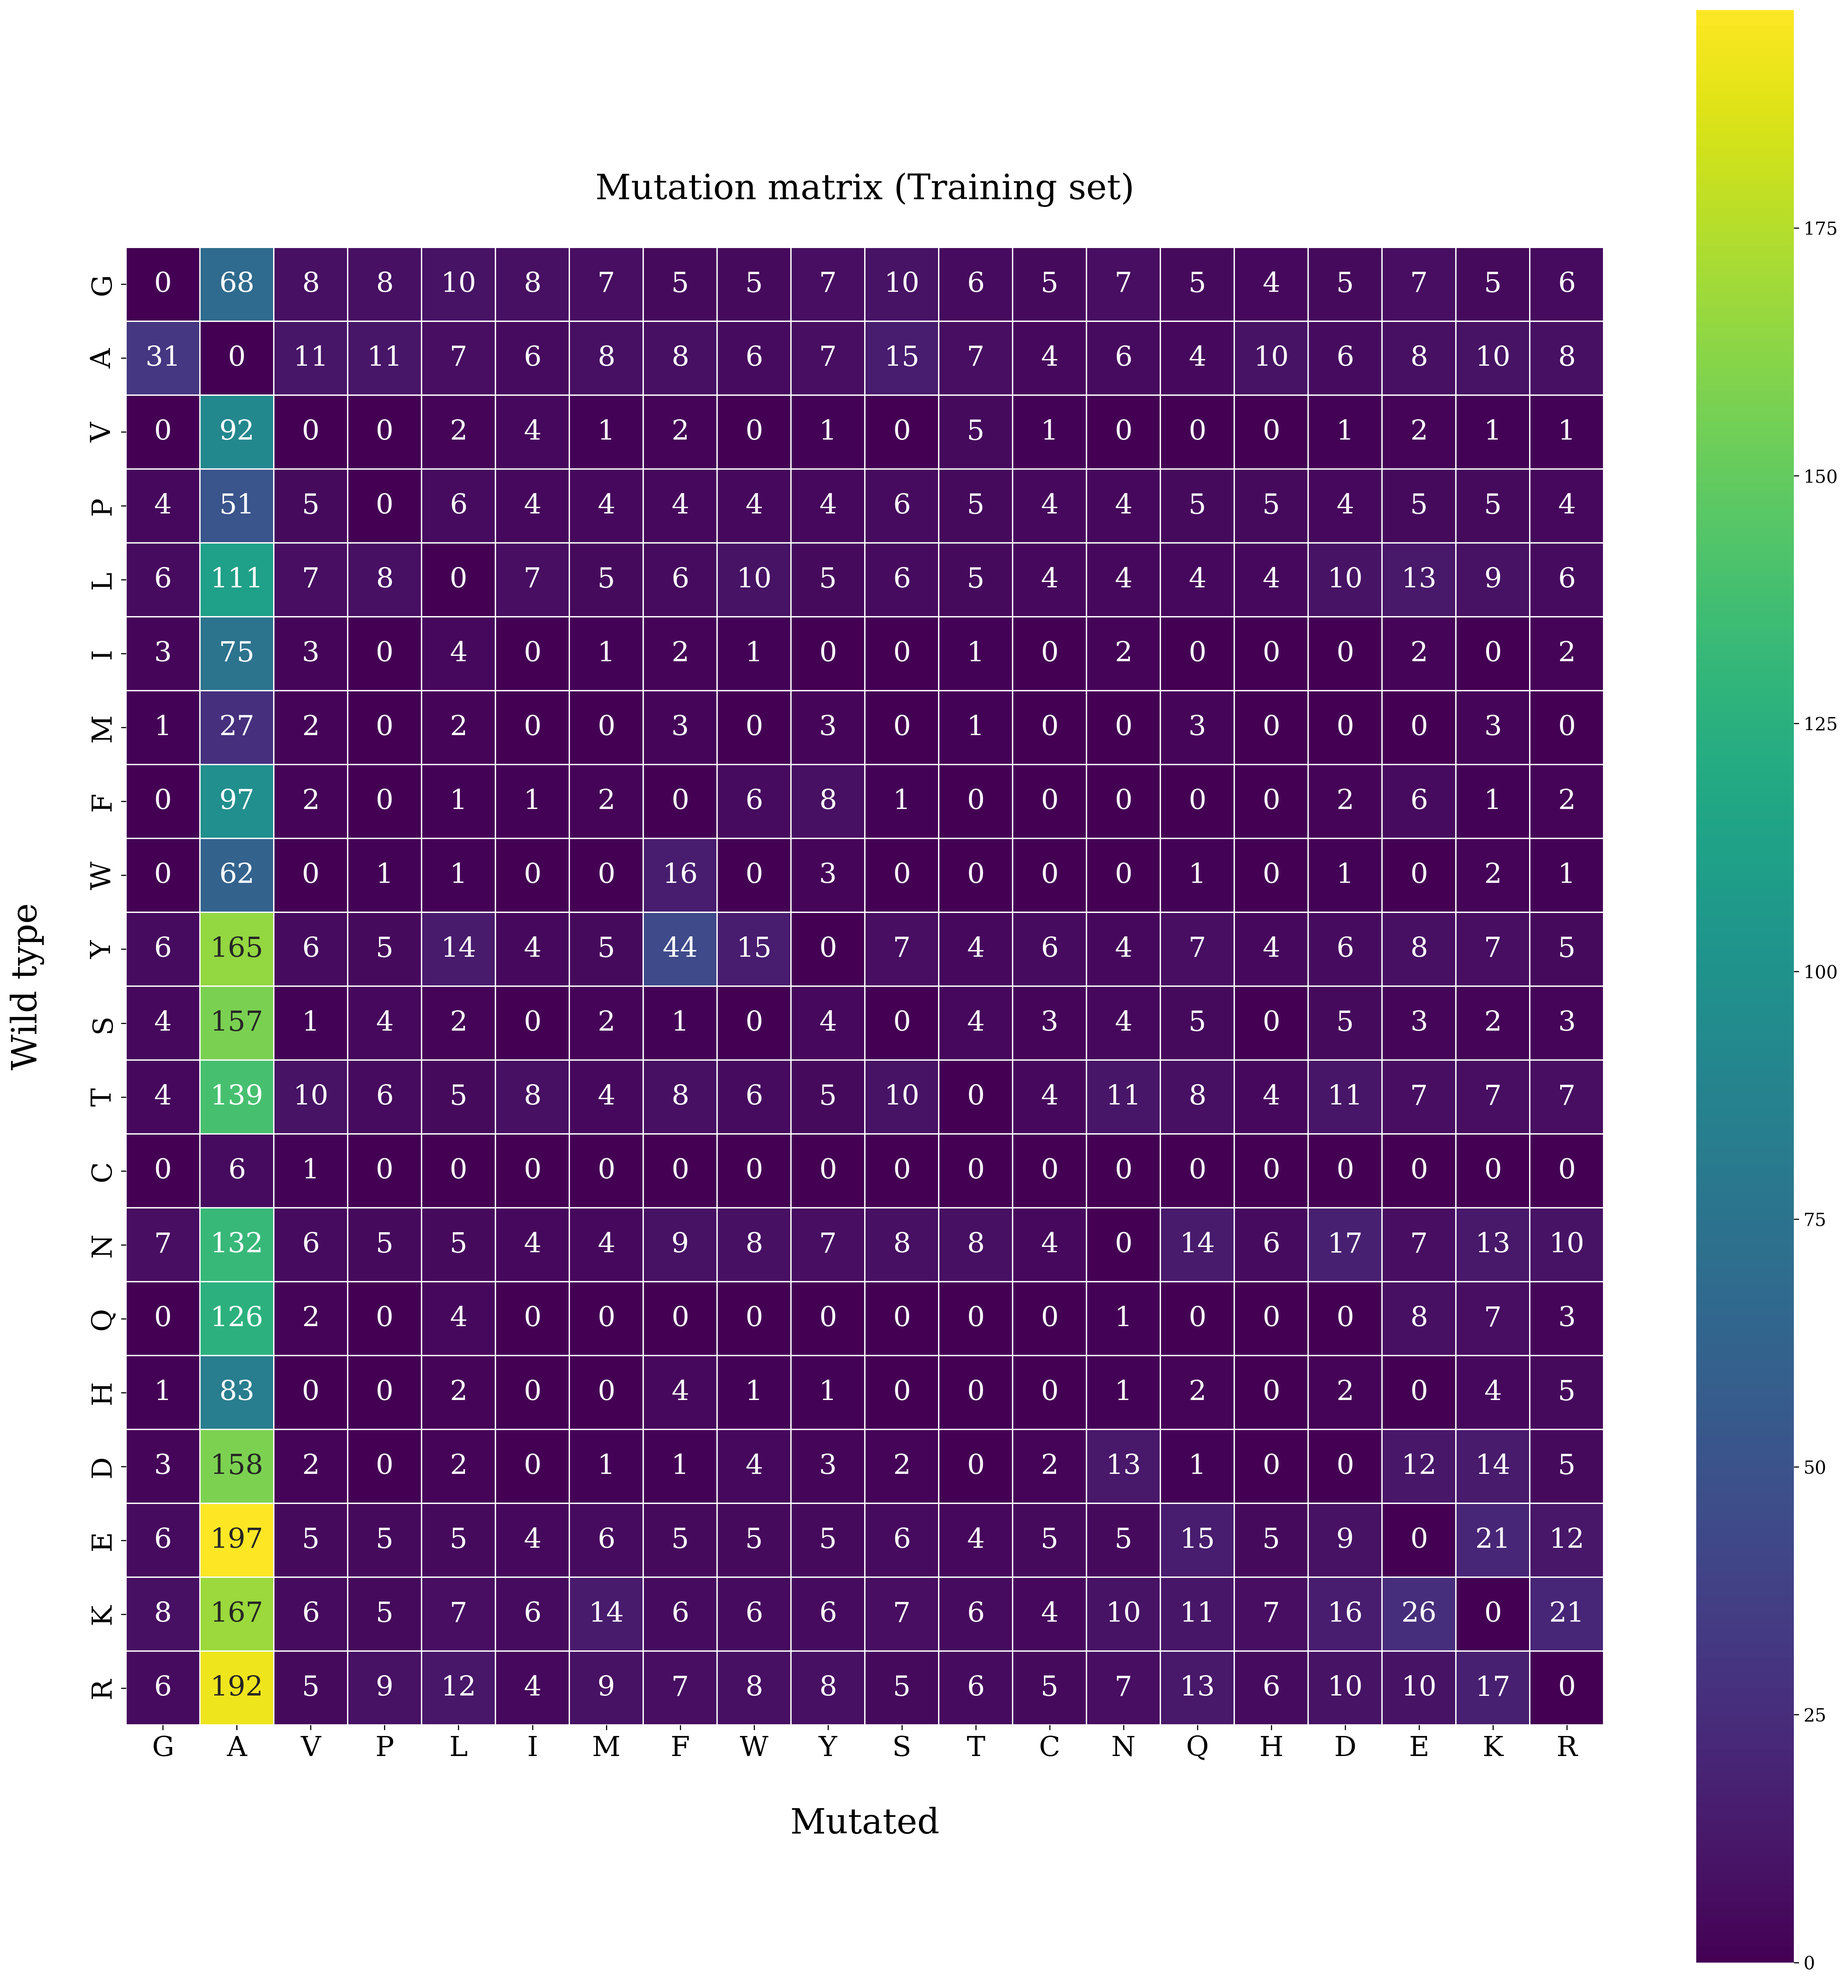
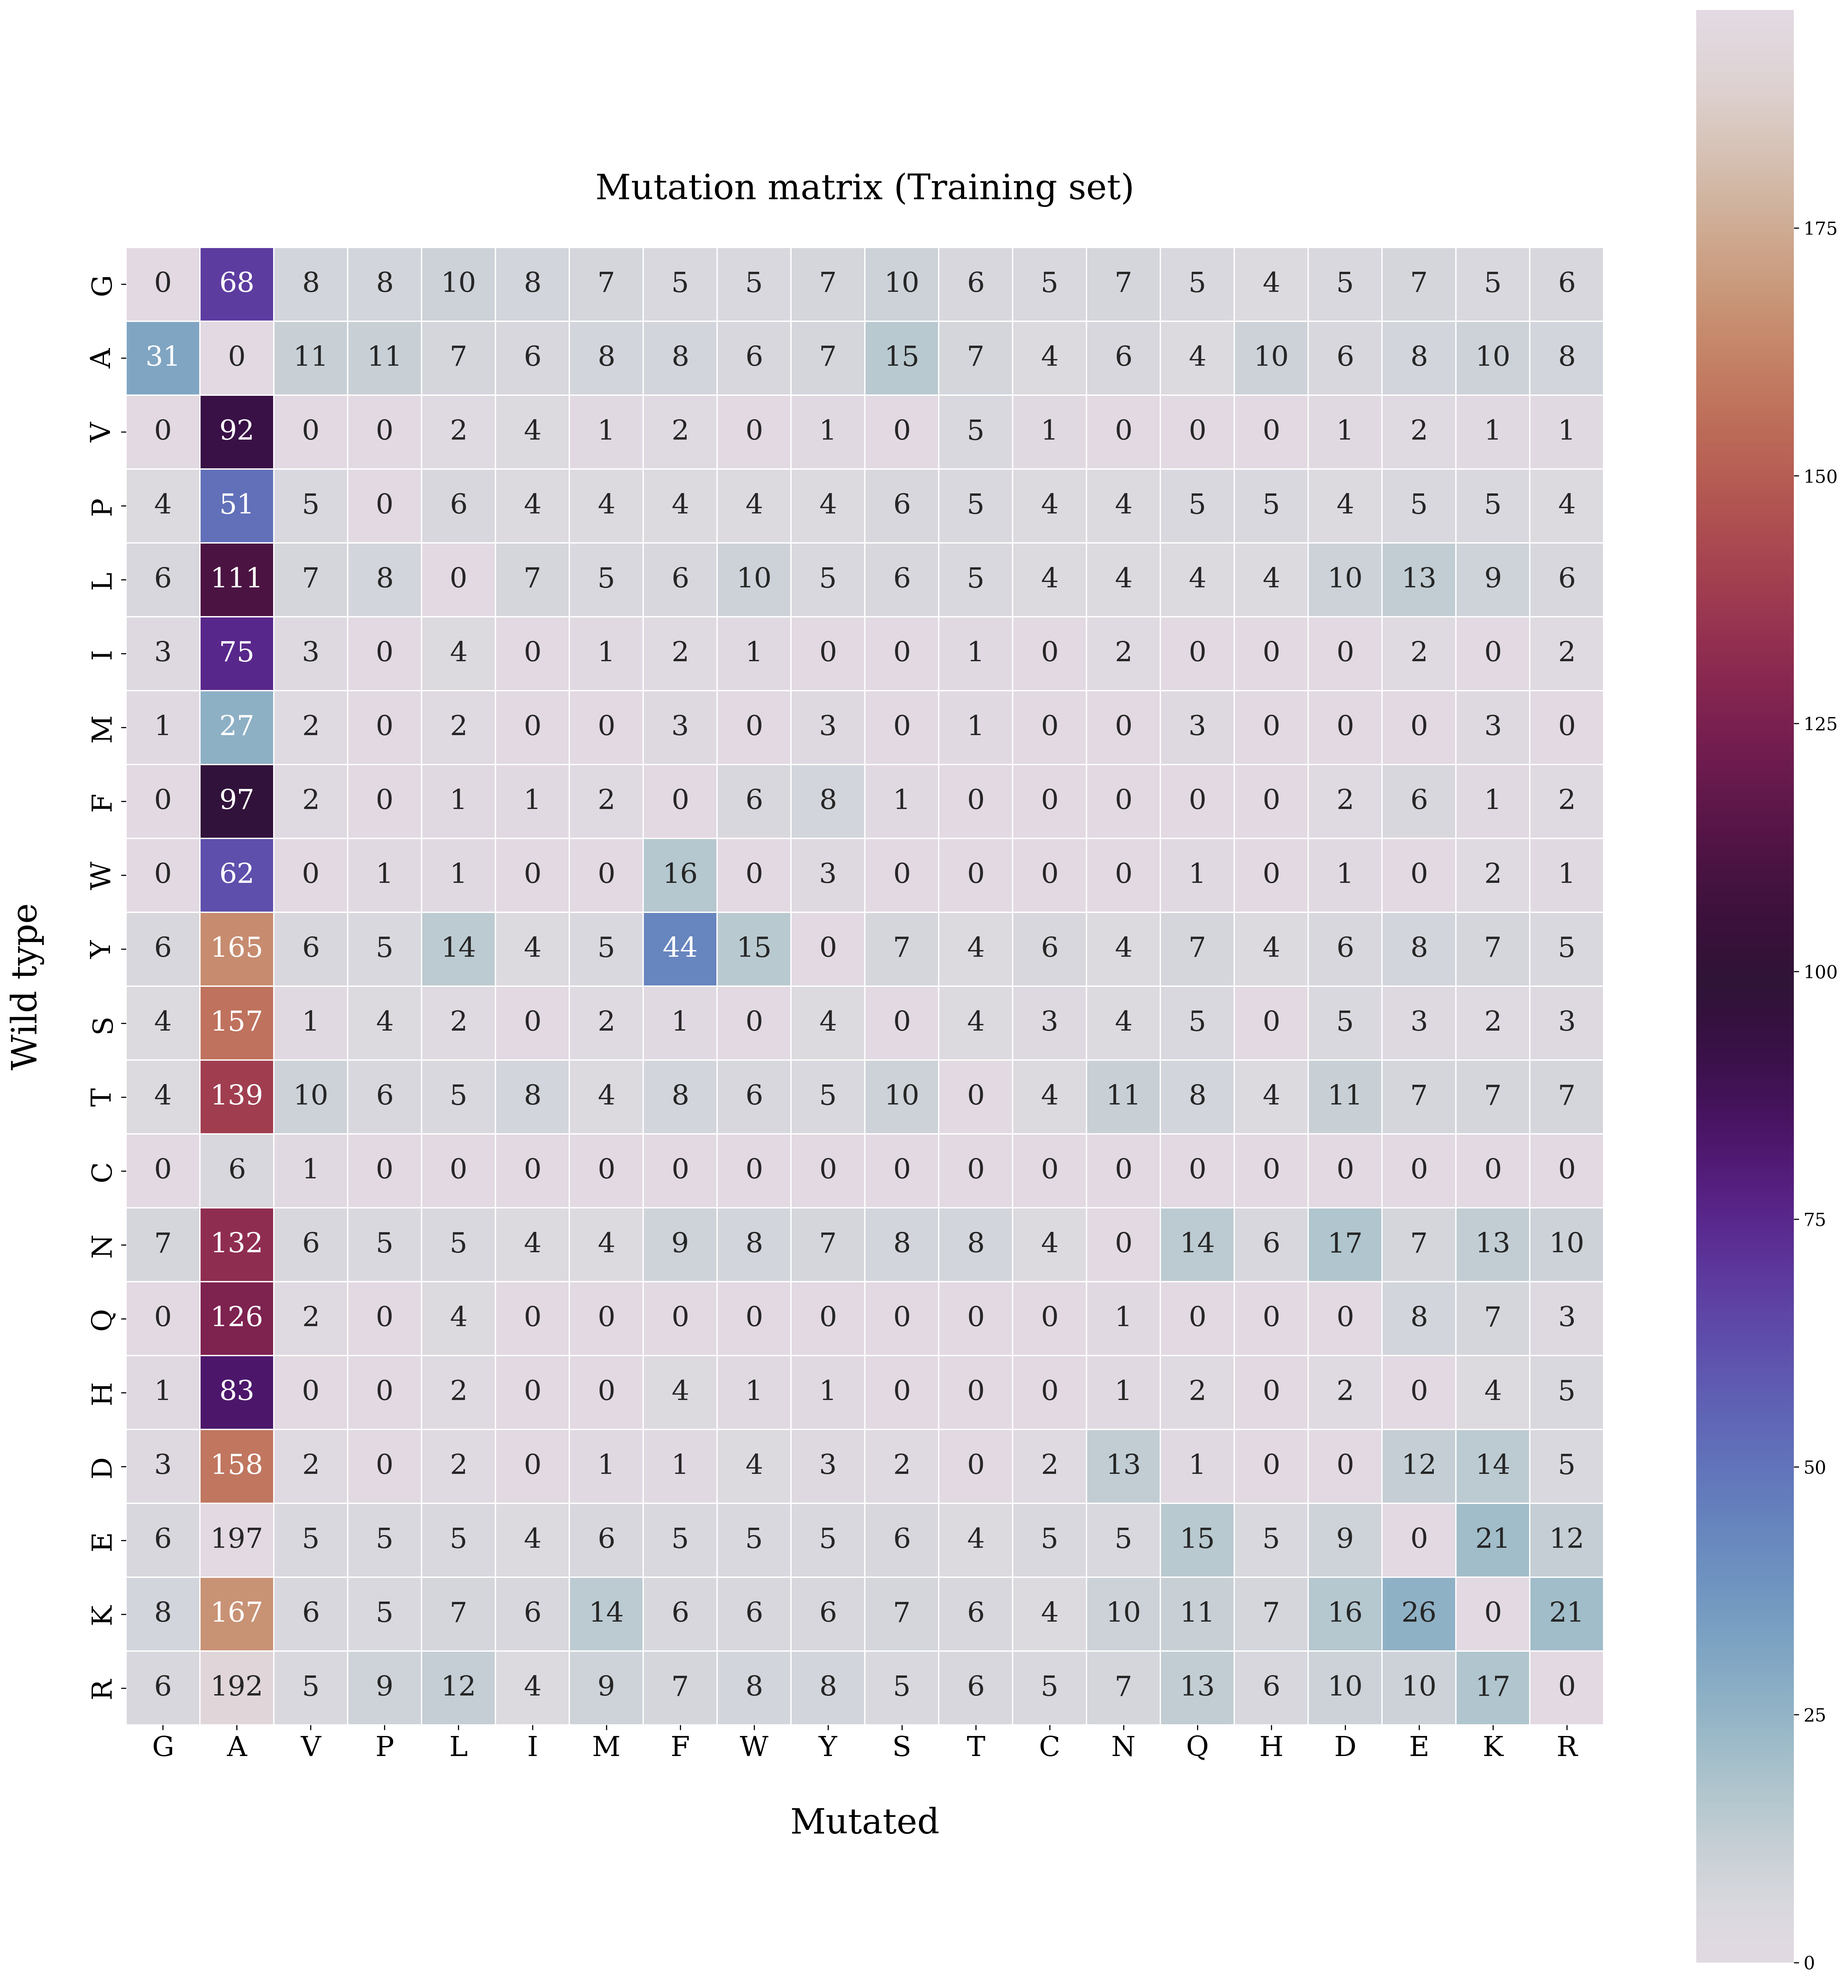
made heatmaps more readable

diff --git a/3_datasplitting/scripts/ddg_heatmap.py b/3_datasplitting/scripts/ddg_heatmap.py
@@ -3,35 +3,50 @@ import matplotlib.pyplot as plt
 import seaborn as sns
 import numpy as np
 
-ala = [f'../output/training/to_alanine_{i}.tsv' for i in range(1,6)]
-one = pd.read_csv(ala[2], sep = '\t')
+for i in range(1,6):
+    df = pd.read_csv(f'../output/training/alanine/to_alanine_{i}.tsv', sep = '\t')
 
-# Crea 20 bin
-one['DDG_avg_binned'] = pd.cut(one['DDG_avg'], bins=40)
-counts = one['DDG_avg_binned'].value_counts(sort=False)
+    # Crea 20 bin
+    df['DDG_avg_binned'] = pd.cut(df['DDG_avg'], bins=40)
+    counts = df['DDG_avg_binned'].value_counts(sort=False)
 
 
-# Conta quante osservazioni ci sono per ogni mut e ogni bin
-hm = pd.crosstab(
-    one['wt'],
-    one['DDG_avg_binned']
-)
+    # Conta quante osservazioni ci sono per ogni mut e ogni bin
+    hm = pd.crosstab(
+        df['wt'],
+        df['DDG_avg_binned']
+    )
 
-# Heatmap
-plt.figure(figsize=(14, 8))
+    sns.set_theme(style="whitegrid", 
+                palette="twilight")
 
-sns.heatmap(
-    hm,
-    annot=True,
-    fmt='d',
-    cmap='viridis',
-    cbar=True
-)
+    plt.rcParams.update({
+                "font.family": "serif",
+                "font.serif": ["Times New Roman", "Times", "DejaVu Serif"],
+                "font.size": 12,
+                "axes.labelsize": 10,
+                "axes.titlesize": 12,
+                "xtick.labelsize": 8,
+                "ytick.labelsize": 8,
+                "legend.fontsize": 8
+            })
 
-plt.xlabel('DDG_avg')
-plt.ylabel('wt')
-plt.xticks(rotation=45, ha='right')
+    # Heatmap
+    plt.figure(figsize=(14, 8))
 
-plt.tight_layout()
-plt.savefig('ddghm.png', dpi=300)
-plt.close()
+    sns.heatmap(
+        hm,
+        annot=True,
+        fmt='d',
+        cmap='twilight',
+        linewidth = 0.5,
+        cbar=True
+    )
+
+    plt.xlabel('\nDDG bins')
+    plt.ylabel('Wild Type\n')
+    plt.xticks(rotation=45, ha='right')
+
+    plt.tight_layout()
+    plt.savefig(f'ddg_ala_{i}.png', dpi=300)
+    plt.close()

diff --git a/3_datasplitting/scripts/heatmap.py b/3_datasplitting/scripts/heatmap.py
@@ -42,7 +42,7 @@ for i in range(1,6):
     ax = sns.heatmap(
             heat,
             square=True,
-            cmap='viridis',
+            cmap='twilight',
             annot = True,
             fmt='.0f',
             annot_kws={"fontsize": 20},
@@ -55,7 +55,7 @@ for i in range(1,6):
     ax.set_ylabel("Wild type\n", fontsize=25)
     ax.set_title(f"Mutation matrix (fold {i})\n", fontsize=25)
     plt.tight_layout()
-    plt.savefig(f'../output/hm_{i}.png', dpi=300, bbox_inches='tight')
+    plt.savefig(f'hm_{i}.png', dpi=300, bbox_inches='tight')
     plt.close()    
         
     h = h + heat
@@ -75,7 +75,7 @@ plt.figure(figsize=(20, 20))
 ax = sns.heatmap(
             h,
             square=True,
-            cmap='viridis',
+            cmap='twilight',
             annot = True,
             fmt='.0f',
             annot_kws={"fontsize": 20},
